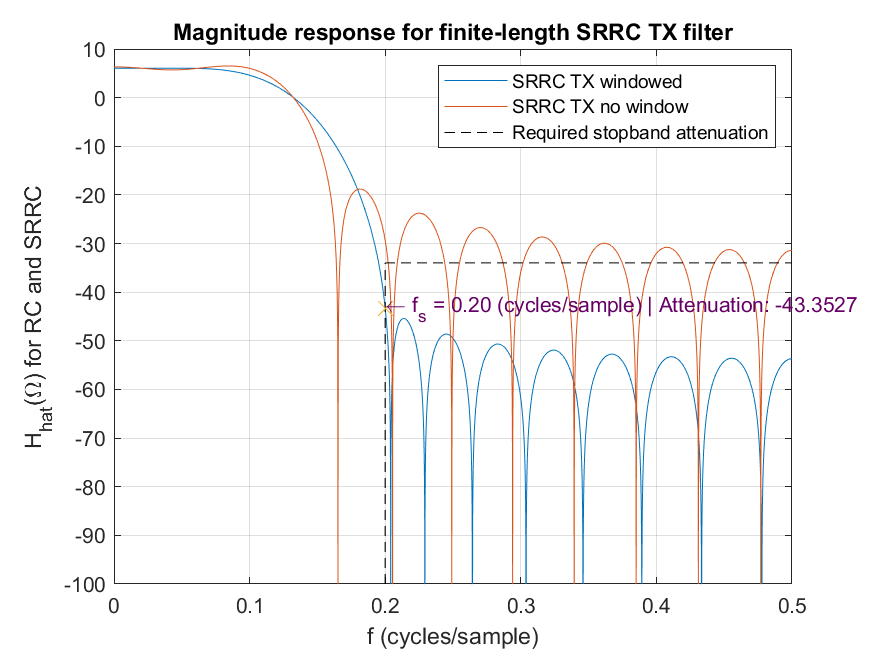
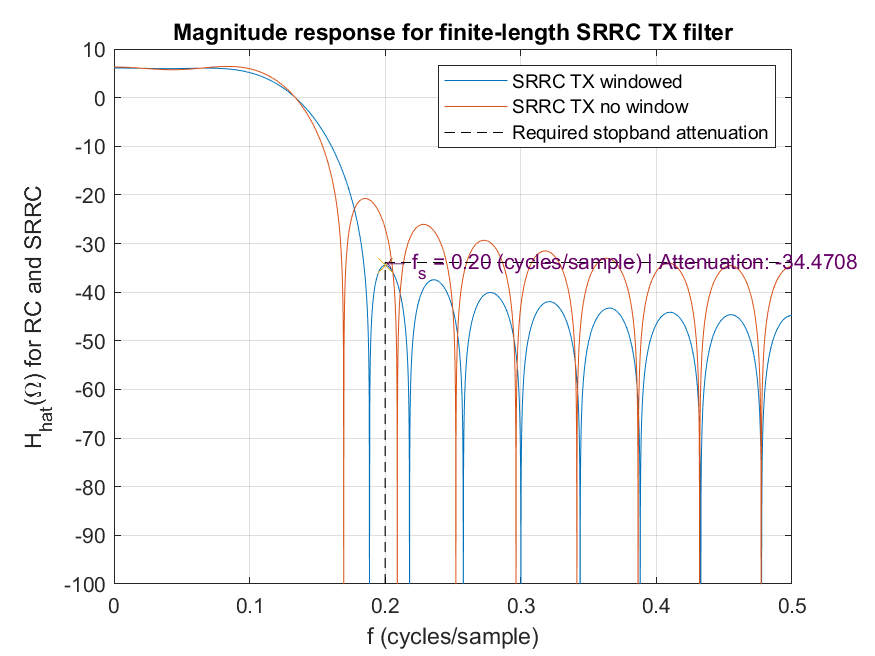
Calculating MER in matlab script; current Best MER: 24 dB; b=0.25; A=30;
Calculating MER in matlab script; current Best MER: 24 dB; b=0.25; A=30;

diff --git a/1Deliverable/Deliverable1.m b/1Deliverable/Deliverable1.m
@@ -165,10 +165,13 @@ fprintf('End of 0s18 Coefficients for SRRC RCV 1s17 filter\n\n');
 % % length of the pulse
 % span = M/Nsps;
 % % beta or excess bandwidth
-beta = 0.21;
+% beta = 0.21; %beta prior to maximizing MER
+% BEST MER: b: 0.25 | A: 30
+beta = 0.25;
 % Stopband Attenuation
-A = 40;   %Had to adjust for SA
-% beta for Kaiser window
+% A = 40;   %A prior to maximizing MER
+A = 30;   %Had to adjust for SA
+% beta for Kaiser window | 21 <= A <= 50
 b = 0.5842*((A-21)^0.4)+0.07886*(A-21);
 % stopband frequency (cycles/sample)
 fs = 0.2;
@@ -200,7 +203,9 @@ for i = 1:length(col)
         fprintf('!!!ERROR IN TX FILTER!!!!\nindex: %d | Magnitude: %10.6f dB | %.6f cycles/sample\n', col(i), 20*log10(abs(H_TX_wn(col(i)))), w(col(i))/2/pi );
         fprintf('Difference from DC is: %.6f dB\n',DC-20*log10(abs(H_TX_wn(col(i)))) );
         fprintf('DC value: %.6f dB\n',DC);
-        return
+%         return
+% For maximizing MER
+    break
     end
 end
 
@@ -226,7 +231,7 @@ grid;
 datacursormode(TX_THEO,'on');
 print -dpng ./pics/mag_response_of_theoretical_SRRC_TX_filter.png
 % comment/uncomment below
-close 'Magnitude Response of theoretical SRRC TX filter'
+% close 'Magnitude Response of theoretical SRRC TX filter'
 
 % "scale coefficients so that the maximum possible output of the filter fits
 % into a 1s17 format"? Constraints of "a" value from 4-ASK output? If I
@@ -263,11 +268,11 @@ h_TX_0s = h_TX_wn * safety/h_TX_wc;
 
 % check if max possible output for filter is larger than 1
 if (h_TX_0s * worse_case_TX) > 1
-    fprintf('Error! Max possible output for scaled theoretical SRRC TX, h_TX_1s is: %1.17f',(h_TX_0s * worse_case_TX));
-    return;
+    fprintf('Error! Max possible output for scaled theoretical SRRC TX, h_TX_1s is: %1.17f\n',(h_TX_0s * worse_case_TX));
+    return
 end
 
-% compute FR of scaled RCV filter's FR
+% compute FR of scaled TX filter's FR
 H_TX_1s = freqz(h_TX_0s,1,w);
 
 % convert the theoretical scaled coefficients into a 18 bit signed number
@@ -280,7 +285,7 @@ H_TX_0s18 = freqz( (h_TX_0s18/2^18),1,w);
 
 % check if max possible output via dot product for filter is larger than 1
 if (h_TX_0s18/2^18 * worse_case_TX) >= 1
-    fprintf('Error! Max possible output for scaled SRRC 1s17 TX, h_TX_1s17 is: %1.17f',(h_TX_0s18/2^18 * worse_case_TX));
+    fprintf('Error! Max possible output for scaled SRRC 1s17 TX, h_TX_1s17 is: %1.17f\n',(h_TX_0s18/2^18 * worse_case_TX));
     return;
 end
 
@@ -304,7 +309,45 @@ axis([0.0,0.5,-100,10]);
 datacursormode(TX_CMP,'on');
 print -dpng ./pics/mag_response_of_cmp_SRRC_TX_filter.png
 % comment/uncomment below
-close 'Magnitude Response of theoretical and implemented SRRC TX filter'
+% close 'Magnitude Response of theoretical and implemented SRRC TX filter'
+
+%% MER (Modulation Error Ratio)
+% compute the MER BEFORE plotting and implementing the transmitter filter
+
+% convolve TX and RCV filter
+cascade = conv(h_TX_0s18/2^17, h_rcv_0s18/2^17);
+
+% FR
+% H_cascade = freqz(cascade, 1, w);
+% figure()
+% plot(w/2/pi, 20*log10(abs(H_cascade)));
+
+% Computer MER; center coeff/sum of every 4th coeff except center; MER in
+% dB
+num = cascade(N);
+den = zeros( floor(length(cascade)/4),1 );
+cnt = 0;
+idx = 1;
+
+for i = 1:length(cascade)
+    if cnt == 0 && i ~= N
+        den(idx) = cascade(i);
+        cnt = cnt + 1;
+        idx = idx + 1;
+    elseif cnt >= 3
+        cnt = 0;
+    else
+        cnt = cnt + 1;
+    end
+end
+    
+MER_theo = 10*log10( num^2/sum(den.^2) );
+% MER_theo = 20*log10( num/sum(den) );
+
+return
+
+%% TX filter coefficient implementation
+% Use filter coefficients based on their MER
 
 % Coefficiencts for SRRC 1s17 Rcv filter
 fprintf('0s18 Coefficients for SRRC TX 1s17 filter:\n');
@@ -356,6 +399,7 @@ for i = 1:ceil(cols/2)
     end
 end
 fprintf('End of 0s18 Coefficients for SRRC Multiplier-Free Transmitter filter:\n\n');
+
 
 
 %% Textfiles
